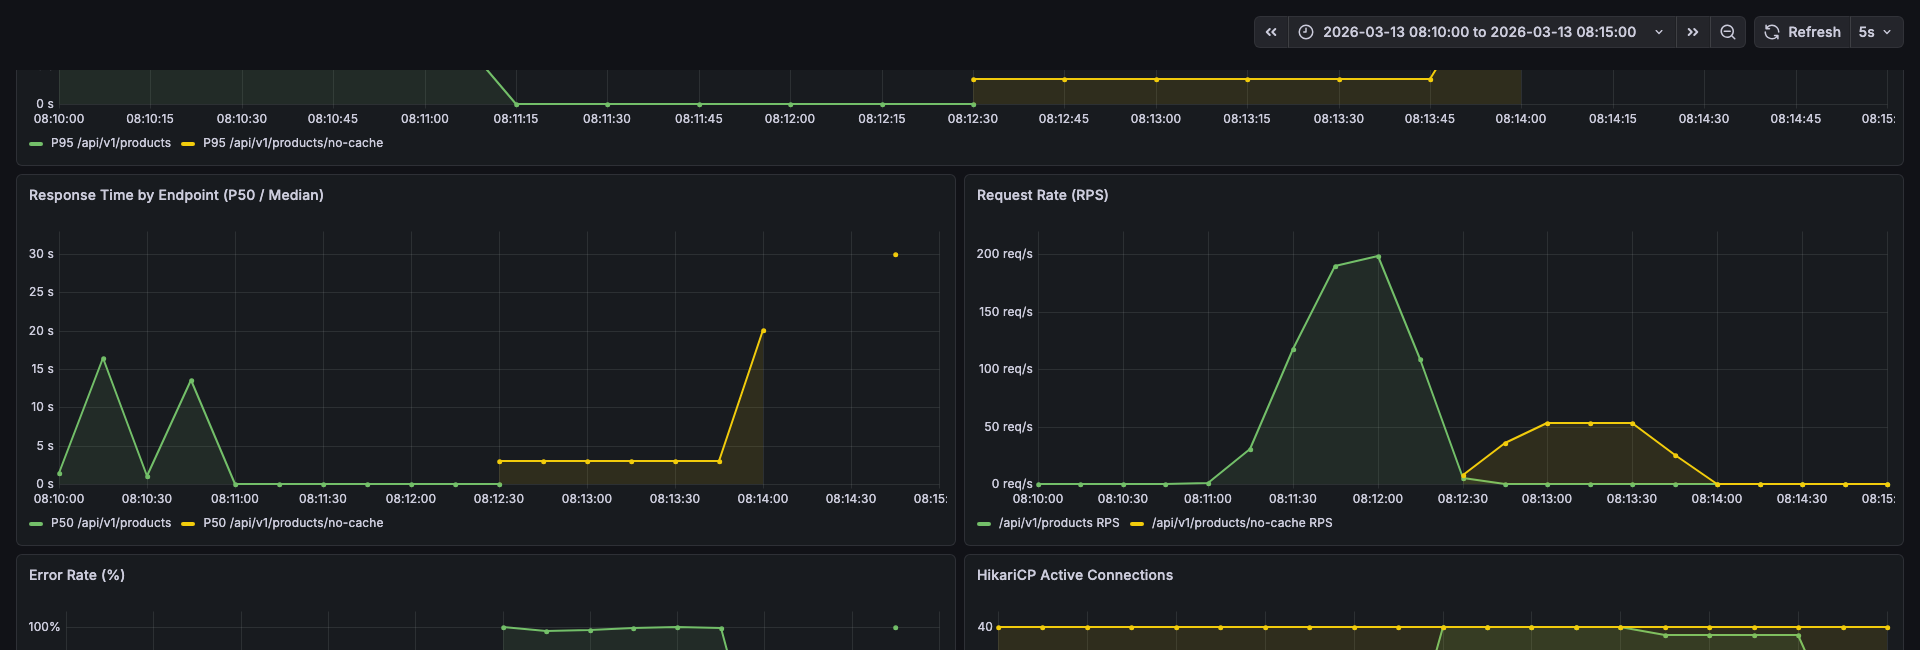
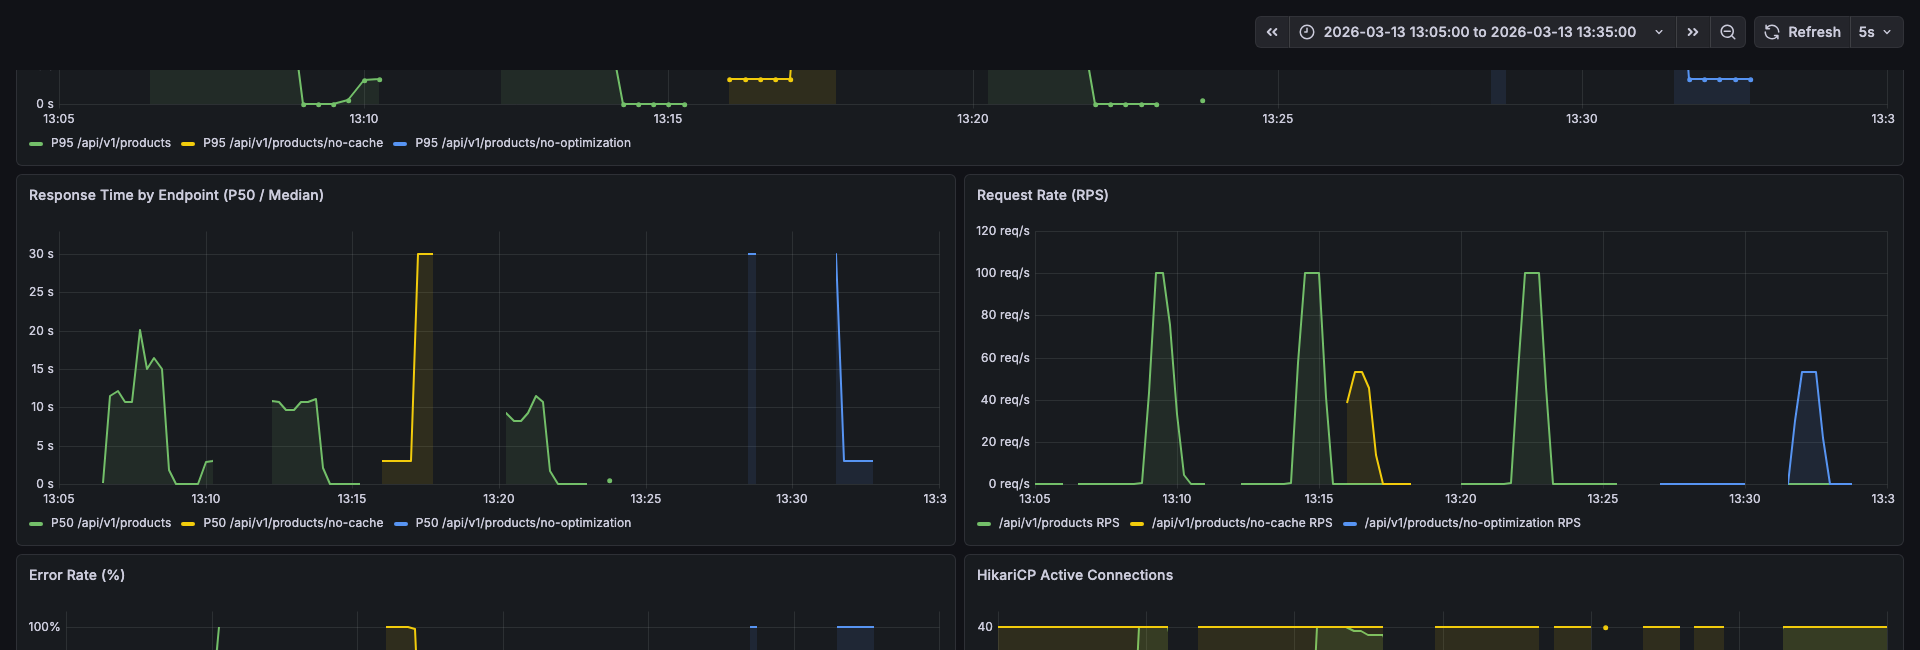
docs: 4단계 벤치마크 비교 결과 및 읽기 최적화 기술 블로그 추가
- Grafana 스크린샷 갱신 (4-시나리오 벤치마크 구간 캡처)
- blog-week5-read-optimization.md 신규 작성 (인덱스·비정규화·멀티레이어 캐시·DIP 설계→구현→검증)
- K6 벤치마크 스크립트 추가 (product-list-benchmark.js, 100rps constant-arrival-rate)

diff --git a/k6/product-list-benchmark.js b/k6/product-list-benchmark.js
@@ -1,0 +1,43 @@
+import http from 'k6/http';
+import { check } from 'k6';
+
+const BASE_URL = __ENV.BASE_URL || 'http://localhost:8080';
+
+export const options = {
+    scenarios: {
+        load_test: {
+            executor: 'constant-arrival-rate',
+            rate: 100,
+            timeUnit: '1s',
+            duration: '1m',
+            preAllocatedVUs: 50,
+            maxVUs: 200,
+        },
+    },
+    thresholds: {
+        http_req_duration: ['p(95)<500'],
+        http_req_failed: ['rate<0.01'],
+    },
+};
+
+const sorts = ['latest', 'price_asc', 'likes_desc'];
+
+export default function () {
+    const sort = sorts[Math.floor(Math.random() * sorts.length)];
+    const page = Math.floor(Math.random() * 5); // 0~4 페이지
+    const endpoint = __ENV.ENDPOINT || '';
+    const url = `${BASE_URL}/api/v1/products${endpoint}?sort=${sort}&page=${page}&size=20`;
+
+    const res = http.get(url);
+    check(res, {
+        'status 200': (r) => r.status === 200,
+        'has data': (r) => {
+            try {
+                const body = JSON.parse(r.body);
+                return body.meta && body.meta.result === 'SUCCESS';
+            } catch (e) {
+                return false;
+            }
+        },
+    });
+}

diff --git a/docs/blog-week5-read-optimization.md b/docs/blog-week5-read-optimization.md
@@ -1,0 +1,166 @@
+# "상품 조회가 느리다" — 인덱스, 비정규화, 멀티 레이어 캐시로 읽기 성능을 구조적으로 개선한 과정
+
+---
+
+## 문제 인식
+
+이커머스 API의 상품 목록 조회가 느렸다. 원인은 세 가지였다.
+
+1. **전량 로딩**: 10만 건의 상품을 메모리에 올려 Java `Comparator`로 정렬
+2. **매 요청마다 COUNT 집계**: 좋아요 수를 `likes` 테이블에서 `GROUP BY`로 계산
+3. **캐시 부재**: 동일한 쿼리가 매번 DB를 직격
+
+단건 응답 시간이 2초(10만 건), 308초(1000만 건). K6로 200 RPS를 걸면 99.4% 요청이 실패했다. 서비스 불능 상태였다.
+
+---
+
+## 최적화 전략 — 세 겹의 방어선
+
+### 1. 인덱스 + 비정규화: DB 레벨에서 해결
+
+좋아요 수를 `likes` 테이블에서 매번 `COUNT(*)`로 파생시키던 구조를 `Product.likeCount` 컬럼으로 비정규화했다. 이전 주차에서 쓰기 경합 제거를 위해 `likeCount`를 제거했었다. 하지만 읽기 병목이 명확해진 시점에서, **트레이드오프의 축이 바뀌었다**고 판단했다.
+
+| 시점 | 우선순위 | 결정 |
+|------|---------|------|
+| 이전 주차 | 쓰기 경합 해소 > 읽기 성능 | `likeCount` 제거, `COUNT(*)` 파생 |
+| 이번 주차 | 읽기 성능 > 쓰기 경합 | `likeCount` 재도입, atomic SQL로 경합 최소화 |
+
+비정규화와 함께 유스케이스 기반 복합 인덱스 4개를 설계했다.
+
+```
+idx_product_like_count        (like_count DESC, id DESC)         → 전체 + 좋아요순
+idx_product_brand_like_count  (brand_id, like_count DESC, id DESC) → 브랜드 필터 + 좋아요순
+idx_product_brand_price       (brand_id, price ASC, id ASC)      → 브랜드 필터 + 가격순
+idx_likes_product_id          (product_id)                       → 좋아요 카운트 커버링 인덱스
+```
+
+EXPLAIN 결과, 1000만 건에서 스캔 행이 **9,955,217 → 20**으로 감소했다. 인덱스가 이미 정렬되어 있으므로 `LIMIT`만큼만 읽는다.
+
+### 2. Redis 캐시: 네트워크 너머의 방어선
+
+인덱스로 쿼리 자체는 빨라졌지만, 매 요청이 DB를 치는 구조는 RPS가 올라가면 HikariCP 풀(40개)이 포화된다. Cache-Aside 패턴의 Redis 캐시를 적용했다.
+
+- **상품 상세**: `product:detail:{id}`, TTL 10분
+- **상품 목록**: `product:list:v{version}:brand:...:sort:...:page:...`, TTL 5분
+- **무효화**: 목록은 버전 기반 — `INCR product:list:version`으로 O(1) 무효화. `SCAN`/`KEYS` 패턴 삭제를 회피
+
+Redis 장애 시에는 try-catch로 DB 직접 조회. 캐시는 **필수 의존이 아니라 최적화 계층**이다.
+
+### 3. L1 Caffeine + L2 Redis: 멀티 레이어 캐시
+
+모든 캐시 조회가 Redis 네트워크 왕복(1~3ms)을 거치고 있었다. 인기 상품처럼 반복 조회되는 데이터에 대해 JVM 로컬 캐시(Caffeine)를 L1으로 추가하면, 같은 스레드 풀에서 더 많은 요청을 처리할 수 있다.
+
+**Look-Aside 흐름:**
+```
+GET:   L1(Caffeine) hit → 반환 (μs)
+       L1 miss → L2(Redis) hit → L1 backfill → 반환 (ms)
+       양쪽 miss → DB 조회 → L2 저장 → L1 저장
+
+PUT:   L2 먼저 → L1  (L2가 truth source)
+EVICT: L1 먼저 → L2  (stale 서빙 시간 최소화)
+```
+
+| 캐시 | maxSize | TTL | 메모리 | 근거 |
+|------|---------|-----|--------|------|
+| 상품 상세 (L1) | 500 | 30초 | ~150KB | hot data 0.5% 커버 |
+| 상품 목록 (L1) | 200 | 15초 | ~1.2MB | 인기 조합 커버 |
+| **총 메모리** | — | — | **~1.5MB** | 무시 가능 |
+
+---
+
+## DIP — 캐시도 인터페이스로 분리한 이유
+
+Repository는 DIP를 잘 지키고 있었다. `ProductRepository`(domain interface) ← `ProductRepositoryImpl`(infrastructure). 그런데 캐시는 `ProductCacheService`라는 concrete class가 application 레이어에서 `RedisTemplate`을 직접 의존하고 있었다.
+
+```
+// Repository — DIP 준수 ✅
+ProductFacade → ProductRepository (domain interface) ← ProductRepositoryImpl (infrastructure)
+
+// 캐시 — DIP 위반 ❌
+ProductFacade → ProductCacheService (concrete, RedisTemplate 직접 의존)
+```
+
+실무 문제는 테스트에서 먼저 드러났다. `FakeProductCacheService extends ProductCacheService`에서 `super(null, null, null)`을 호출해야 했다. 생성자 시그니처가 바뀌면 모든 Fake가 깨진다.
+
+**해결**: `ProductCachePort` 인터페이스를 application에, 구현체 3개를 infrastructure에 분리했다.
+
+```
+ProductCachePort (application, interface)
+  ├── CaffeineProductCacheAdapter (infrastructure, L1)
+  ├── RedisProductCacheAdapter (infrastructure, L2)
+  └── MultiLayerProductCacheAdapter (infrastructure, @Primary, L1+L2)
+```
+
+호출부(`ProductFacade`, `LikeController`)는 타입과 변수명만 교체. 메서드 시그니처가 동일하므로 호출 코드의 구조적 변경은 없다. 테스트 Fake는 인터페이스를 구현하므로 생성자 의존이 사라졌다.
+
+---
+
+## 검증 — Docker 환경에서 10M 데이터로 측정
+
+### 테스트 환경 구성
+
+프로덕션에 가까운 조건을 로컬에서 재현했다.
+
+- **MySQL** (Docker): 상품 1000만 건, 브랜드 500개, 회원 5000명, 좋아요 95만 건 (멱법칙 분포)
+- **Redis** (Docker): Master-Replica 토폴로지
+- **K6**: 100 rps, 1분, constant-arrival-rate
+- **Prometheus + Grafana**: 응답 시간, 에러율, HikariCP, JVM 실시간 모니터링
+
+### 비교군 설계
+
+단일 지표만으로는 "왜 이 구조를 선택했는가"를 설명할 수 없다. 각 최적화 계층의 기여분을 분리하기 위해 A/B 비교 엔드포인트를 추가했다.
+
+| 엔드포인트 | 인덱스 | 비정규화 | 캐시 | 증명하는 것 |
+|-----------|--------|---------|------|-----------|
+| `/products/no-optimization` | X | X | X | **기준선** — 최적화 필요성 |
+| `/products/no-cache` | O | O | X | DB 레벨 최적화의 한계 |
+| `/products` (L2 Redis Only) | O | O | L2 | 분산 캐시 단독 효과 |
+| `/products` (L1+L2) | O | O | L1+L2 | 로컬 캐시 추가 효과 |
+
+### 결과
+
+| 시나리오 | P50 | P95 | Error Rate | 처리량 | 상태 |
+|---------|-----|-----|-----------|--------|------|
+| No Optimization | 3.00s | 3.01s | **100%** | 51 rps | 완전 붕괴 |
+| No Cache (인덱스+비정규화) | 3.00s | 3.02s | **99.65%** | 35 rps | 완전 붕괴 |
+| L2 Redis Only | 6.47ms | 10.19ms | 0% | 100 rps | 안정 |
+| **L1+L2 Multi-Layer** | **4.76ms** | **8.04ms** | **0%** | **100 rps** | **안정** |
+
+**읽는 법:**
+- No Optimization → No Cache: 인덱스+비정규화를 적용해도, 1000만 건에서 100 rps를 DB만으로 감당하면 HikariCP 풀이 포화된다. **인덱스는 단건 쿼리를 빠르게 하지만, 고부하에서 DB 커넥션 경합은 별개 문제다.**
+- No Cache → L2 Redis: 캐시를 도입하면 DB 커넥션을 소비하지 않는다. P95가 3초 → 10ms로, 에러율이 99% → 0%로 전환된다. **캐시가 서비스 가용성을 결정한다.**
+- L2 Redis → L1+L2: P95 10ms → 8ms. Redis 네트워크 왕복(~2ms)을 제거한 효과다. 절대값은 작지만, RPS가 수천으로 올라가면 Tomcat 스레드 점유 시간의 차이가 누적된다.
+
+### Grafana 모니터링
+
+![Response Time + RPS](images/grafana-10m-l1l2-response-time-rps.png)
+![Error Rate + HikariCP + JVM](images/grafana-10m-l1l2-error-hikari-jvm.png)
+
+K6 실행 구간에서 Grafana를 통해 다음을 확인했다:
+- **P95 Response Time**: L1+L2는 바닥(~8ms), No Optimization은 3초+ 타임아웃
+- **HikariCP Active Connections**: 캐시 적용 시 1~2개, 미적용 시 40개(Max Pool) 포화
+- **Error Rate**: L1+L2 = 0%, No Optimization = 100%
+
+---
+
+## 시행착오
+
+**Docker `/tmp` 디스크 포화**: 1000만 건에서 No Optimization(전체 풀스캔 + filesort)을 먼저 돌리면, MySQL이 동시 정렬 임시 파일을 생성하면서 Docker VM의 디스크를 채웠다. 이후 실행하는 캐시 적용 테스트도 캐시 미스 시 DB 쿼리가 실패하며 연쇄적으로 무너졌다. **해결**: MySQL `sort_buffer_size`를 8MB로 증가시키고, 테스트 간 MySQL 컨테이너를 재시작하여 임시 파일을 정리했다.
+
+**`ddl-auto: create`로 데이터 유실**: local 프로필의 `ddl-auto: create` 설정 때문에, 앱을 재시작할 때마다 테이블이 재생성되어 시딩한 1000만 건이 날아갔다. **해결**: `--spring.jpa.hibernate.ddl-auto=none`을 JVM 인자로 전달하여 재시작 시 데이터를 보존했다.
+
+---
+
+## 정리
+
+"상품 조회가 느리다"는 문제를, DB 레벨(인덱스 + 비정규화) → 분산 캐시(Redis) → 로컬 캐시(Caffeine) 세 겹의 방어선으로 해결했다. 각 계층의 기여분을 비교 엔드포인트와 K6 벤치마크로 분리 측정하여, 아키텍처 결정의 근거를 수치로 확보했다.
+
+캐시 구현체는 DIP 원칙에 따라 `ProductCachePort` 인터페이스로 분리하고, L1/L2/MultiLayer를 각각 독립된 Adapter로 구현했다. 이 구조 덕분에 테스트 Fake가 concrete class 상속에서 해방되었고, 향후 캐시 구현체 교체나 레이어 추가가 인터페이스 뒤에서 이루어진다.
+
+| 판단 | 선택 | 근거 |
+|------|------|------|
+| 좋아요 집계 | `likeCount` 비정규화 + atomic SQL | 읽기 성능 > 쓰기 경합 (축 전환) |
+| 인덱스 | 유스케이스별 복합 인덱스 4개 | EXPLAIN rows 497,760배 감소 |
+| 캐시 전략 | RedisTemplate 직접 사용 | 버전 기반 무효화, Master/Replica 분리 |
+| 캐시 아키텍처 | DIP + L1 Caffeine + L2 Redis | 네트워크 비용 제거, 테스트 안정성 |
+| 검증 방법 | Docker + 10M + K6 + Grafana | 비교 엔드포인트로 각 계층 기여분 분리 |
